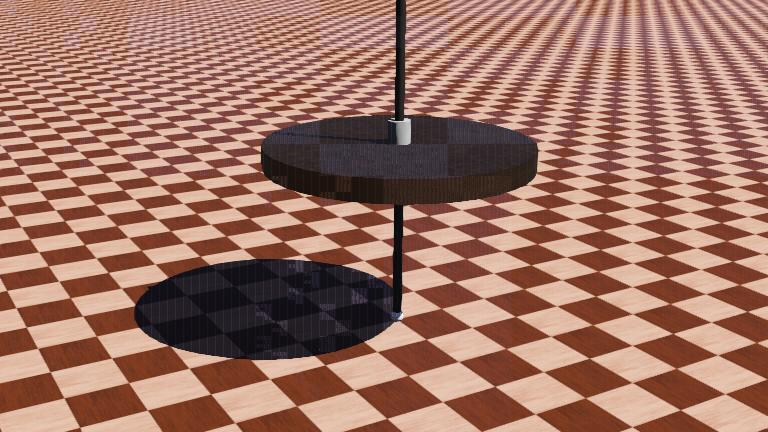
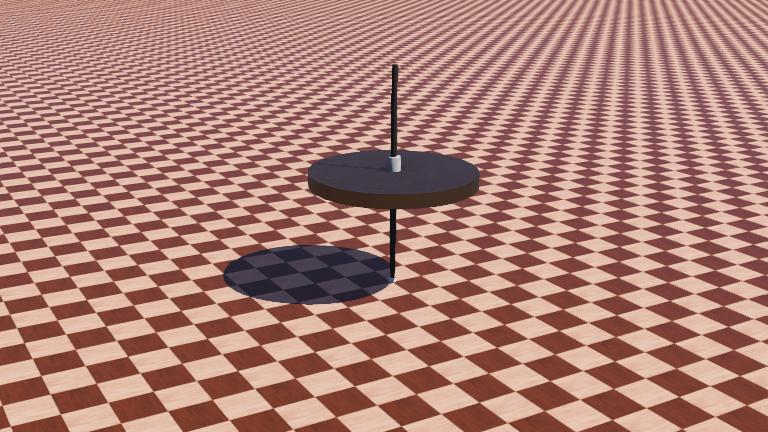
fix rpy calculation error, adjust parameter to stablize jumpping

diff --git a/controllers/hopping_controller/controller.c b/controllers/hopping_controller/controller.c
@@ -38,13 +38,14 @@ void robot_init()
 {
     //------------------------------------------------------------------------参数区
     robot.spring_normal_length = 1.0; //弹簧原长
-    robot.v = 0.20;                   //机器人水平运动速度
+    robot.v = 0.10;                   //机器人水平运动速度
     robot.r_threshold = 0.90;         //用于状态机切换的腿长阈值系数
     robot.k_spring = 2500.0;          //弹簧刚度
-    robot.F_thrust = 150.0;           // THRUST推力，用于调节跳跃高度
+    robot.F_thrust = 200.0;           // THRUST推力，用于调节跳跃高度
     robot.k_leg_p = 6;                //腿部控制时的kp
     robot.k_leg_v = 0.8;              //腿部控制时的kv
-    robot.k_xy_dot = 0.08;           //净加速度系数
+    robot.k_x_dot = 0.05;           //净加速度系数
+    robot.k_y_dot = 0.08;           //净加速度系数
     robot.k_pose_p = 0.8;             //姿态控制时的kp
     robot.k_pose_v = 0.025;           //姿态控制时的kv
 
@@ -230,8 +231,8 @@ void robot_control()
         //计算落足点
         double r = robot.jointPoint.r;
 
-        double x_f = robot.x_dot * robot.Ts / 2.0 + robot.k_xy_dot * (robot.x_dot - robot.x_dot_desire);
-        double y_f = robot.y_dot * robot.Ts / 2.0 + robot.k_xy_dot * (robot.y_dot - robot.y_dot_desire);
+        double x_f = robot.x_dot * robot.Ts / 2.0 + robot.k_x_dot * (robot.x_dot - robot.x_dot_desire);
+        double y_f = robot.y_dot * robot.Ts / 2.0 + robot.k_y_dot * (robot.y_dot - robot.y_dot_desire);
         double z_f = sqrt(r * r - x_f * x_f - y_f * y_f);
 
         robot.workPoint_H_desire.data[0][0] = x_f;
@@ -334,7 +335,7 @@ void update_xy_dot()
     //转换到{H}坐标系下
     double pre_x = robot.workPoint_H.data[0][0];
     double pre_y = robot.workPoint_H.data[1][0];
-    easyMat_mult(&robot.workPoint_H, &robot.R_H_B, &robot.workPoint_B);
+    easyMat_mult(&robot.workPoint_H, &robot.R_B_H, &robot.workPoint_B);
     double now_x = robot.workPoint_H.data[0][0];
     double now_y = robot.workPoint_H.data[1][0];
 

diff --git a/controllers/hopping_controller/controller.h b/controllers/hopping_controller/controller.h
@@ -47,7 +47,8 @@ typedef struct
     double spring_normal_length; //*弹簧原长
     double k_spring;             //弹簧刚度
     double F_thrust;             // THRUST推力
-    double k_xy_dot;             //净加速度系数
+    double k_x_dot;             //净加速度系数
+    double k_y_dot;             //净加速度系数
     double r_threshold;          //状态机在脱离LOADING和进入UNLOADING状态时，腿长阈值判断
     double v;                    //机器人水平运动速度
     double k_pose_p;             //姿态控制时的kp

diff --git a/controllers/hopping_controller/easyMat.c b/controllers/hopping_controller/easyMat.c
@@ -222,8 +222,11 @@ void easyMat_RPY(matTypeDef *outRot, double roll, double pitch, double yaw)
     easyMat_rotY(&RotY, pitch);
     easyMat_rotZ(&RotZ, yaw);
 
+    //easyMat_mult(&temp, &RotY, &RotZ);
+    //easyMat_mult(outRot, &RotX, &temp);
+    //easyMat_mult(&temp, &RotY, &RotZ);
     easyMat_mult(&temp, &RotZ, &RotY);
-    easyMat_mult(outRot, &RotX, &temp);
+    easyMat_mult(outRot, &temp, &RotX);
 
     easyMat_free(&RotX);
     easyMat_free(&RotY);
